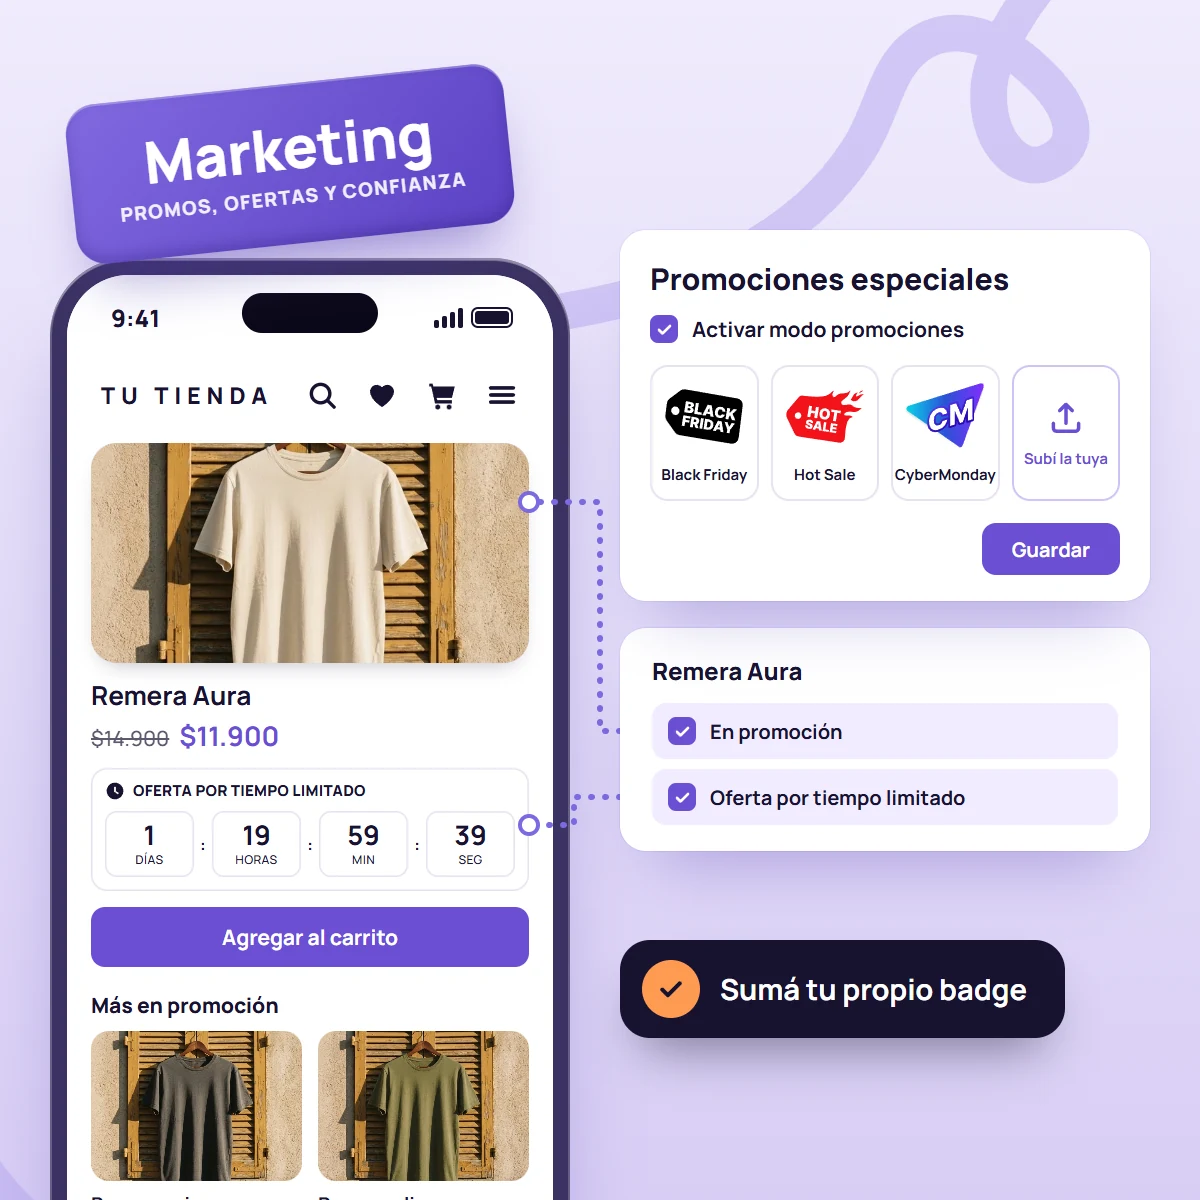
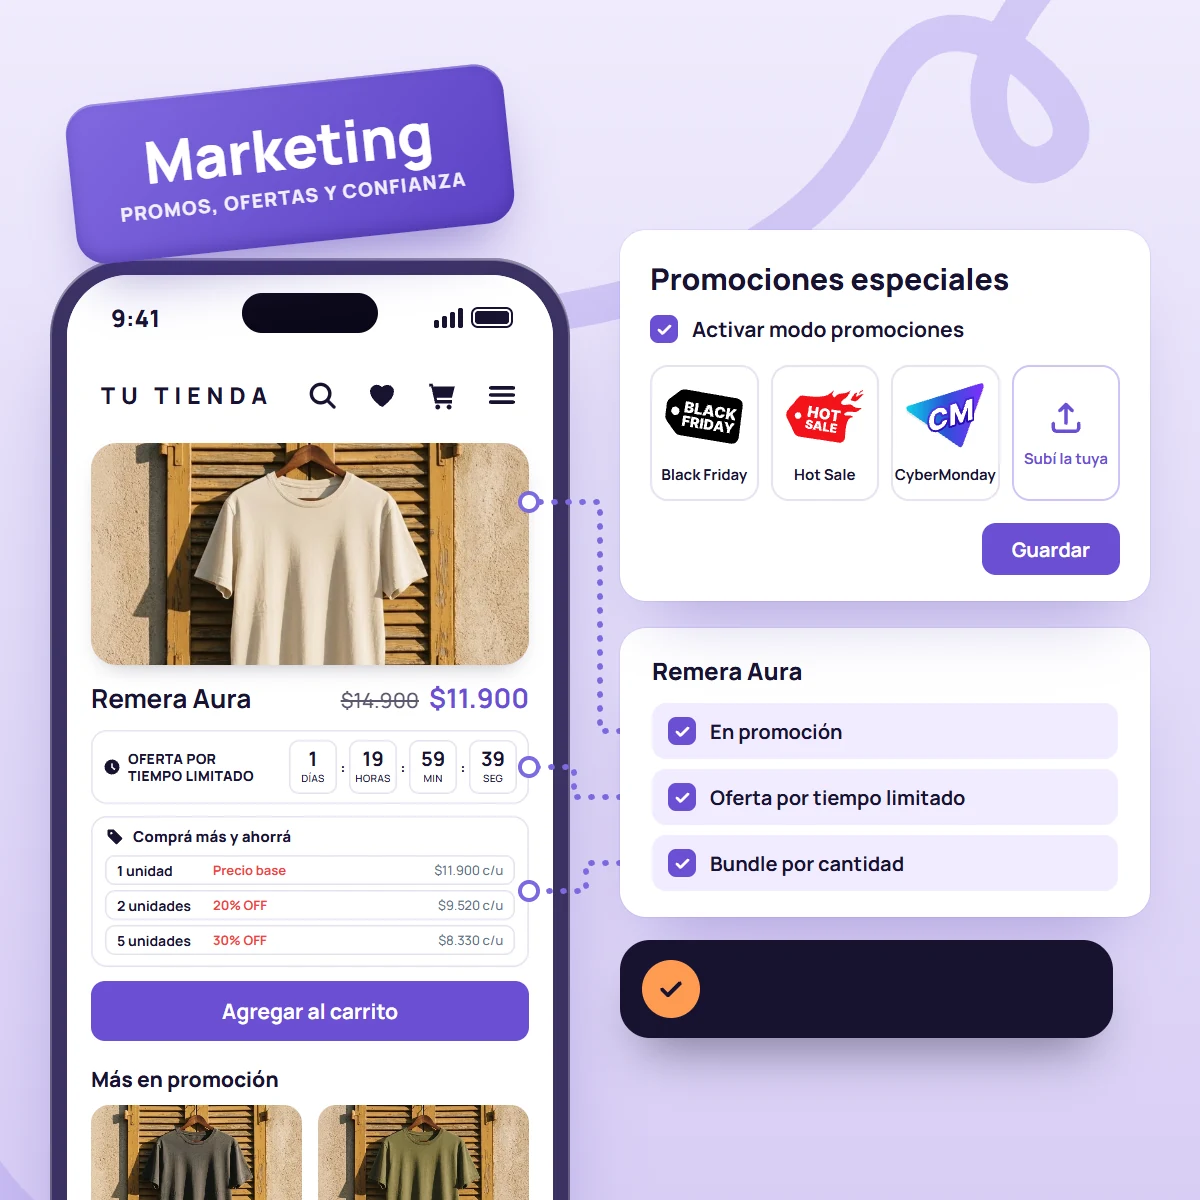
Marketing: Pixel de Meta y Comprá más y ahorrá, imagen nueva y recuadro que no se sale
- Imagen de Marketing: bloque de descuento por cantidad arriba del botón (selección animada), contador chico al lado del título, foto de la remera más alta, tercer casillero Bundle por cantidad
- Cartel azul que cambia a Medí con tu Pixel de Meta, con el ícono del Pixel
- Nuevos puntos en Herramientas de marketing y en la lista del plan Premium
- El recuadro de la imagen mide siempre el ancho de su columna y no se sale
- Sin la línea Todo para promocionar tu tienda en la landing

diff --git a/src/components/MarketingAnimado.jsx b/src/components/MarketingAnimado.jsx
@@ -3,6 +3,7 @@ import fotoAviso from "../assets/premium-overlays/aviso-producto.jpg"
 import badgeBF from "../assets/premium-overlays/badge-bf.svg"
 import badgeHS from "../assets/premium-overlays/badge-hs.svg"
 import badgeCM from "../assets/premium-overlays/badge-cm.svg"
+import pixelMeta from "../assets/premium-overlays/pixel-meta.png"
 
 // Imagen "Marketing", con la tienda viva:
 //  - El contador de la oferta anda: los minutos y los segundos bajan de a uno, como en la tienda real. La imagen
@@ -12,13 +13,15 @@ import badgeCM from "../assets/premium-overlays/badge-cm.svg"
 //  - Los badges se van eligiendo de a uno (Black Friday, Hot Sale, CyberMonday; "Subí la tuya" no): un cursor hace clic en
 //    cada opción, la opción se marca en violeta y el badge elegido se aplica al producto del celular y a los de "Más en
 //    promoción". Bucle de 9 s. La imagen trae el panel y el celular sin la selección ni los badges: esta capa los dibuja.
+//  - El cartel azul de abajo cambia de mensaje en el mismo bucle de 9 s: "Sumá tu propio badge" y, al final, "Medí con tu Pixel de Meta" (el ícono aparece con ese mensaje).
+//  - "Comprá más y ahorrá" (descuento por cantidad, arriba del botón): la imagen trae las tres filas; esta capa dibuja la selección. Bucle de 9 s.
 // Posiciones y tamaños en porcentajes de la imagen de 1200 px (el texto, en unidades del contenedor).
 // Solo se anima mientras la imagen está visible (`activa`) y si el sistema no pide "reducir movimiento"
 // (o se abrió la página con ?motion=on); si no, queda la imagen con la notificación a la vista.
 const INICIO = 59 * 60 + 39 // 59 min 39 seg, como en la imagen
-const TOP = "67.583%"
-const ALTO = "5.5%"
-const ANCHO = "7.408%"
+const TOP = "61.667%"
+const ALTO = "4.5%"
+const ANCHO = "4%"
 
 const OPCIONES = [
   { k: "bf", img: badgeBF, left: 54.167 },
@@ -28,8 +31,8 @@ const OPCIONES = [
 // dónde se aplica el badge elegido: la foto del producto y los dos de "Más en promoción" (izquierda, arriba, ancho)
 const APLICA = [
   { left: "8.417%", top: "38.25%", width: "10.667%" },
-  { left: "8.25%", top: "86.583%", width: "6.167%" },
-  { left: "27.167%", top: "86.583%", width: "6.167%" },
+  { left: "8.25%", top: "92.75%", width: "6.167%" },
+  { left: "27.167%", top: "92.75%", width: "6.167%" },
 ]
 const TILE_TOP = "30.417%"
 const TILE_ALTO = "11.333%"
@@ -48,12 +51,12 @@ function Caja({ left, valor, etiqueta }) {
   return (
     <div
       className="absolute flex flex-col items-center justify-center overflow-hidden bg-white"
-      style={{ left, top: TOP, width: ANCHO, height: ALTO, borderRadius: "1cqw", boxShadow: "inset 0 0 0 0.125cqw #E6E2F0" }}
+      style={{ left, top: TOP, width: ANCHO, height: ALTO, borderRadius: "0.833cqw", boxShadow: "inset 0 0 0 0.125cqw #E6E2F0" }}
     >
-      <b key={valor} className="cd-num font-bold text-ink" style={{ fontSize: "2.25cqw", lineHeight: 1 }}>
+      <b key={valor} className="cd-num font-bold text-ink" style={{ fontSize: "1.667cqw", lineHeight: 1 }}>
         {String(valor).padStart(2, "0")}
       </b>
-      <span className="text-ink-muted" style={{ fontSize: "1cqw", marginTop: "0.25cqw", letterSpacing: "0.04em" }}>
+      <span className="text-ink-muted" style={{ fontSize: "0.833cqw", marginTop: "0.167cqw", letterSpacing: "0.04em" }}>
         {etiqueta}
       </span>
     </div>
@@ -74,8 +77,10 @@ export default function MarketingAnimado({ activa = false }) {
 
   return (
     <div aria-hidden="true" className={`absolute inset-0 ${activa ? "push-activa" : ""}`}>
-      <Caja left="26.592%" valor={Math.floor(restan / 60) % 60} etiqueta="MIN" />
-      <Caja left="35.508%" valor={restan % 60} etiqueta="SEG" />
+      <Caja left="34.083%" valor={Math.floor(restan / 60) % 60} etiqueta="MIN" />
+      <Caja left="39.083%" valor={restan % 60} etiqueta="SEG" />
+      {/* "Comprá más y ahorrá": el borde negro de la cantidad elegida salta de 1 a 2 y a 5 unidades (queda en 1 unidad) */}
+      <span aria-hidden="true" className="bnd-sel absolute" style={{ left: "8.75%", top: "71.25%", width: "34.167%", height: "2.5%" }} />
       {/* badges: se eligen de a uno y se aplican al producto */}
       {OPCIONES.map((o) => (
         <span
@@ -124,6 +129,21 @@ export default function MarketingAnimado({ activa = false }) {
           style={{ left: `${o.left + TILE_ANCHO / 2}%`, top: TILE_CENTRO_Y }}
         />
       ))}
+      {/* Cartel azul: "Sumá tu propio badge" mientras se eligen los badges y, al final del bucle, "Sumá tu Pixel de Meta" con su ícono */}
+      <div className="absolute grid items-center text-white" style={{ left: "60%", top: "78.333%", height: "8.167%" }}>
+        <span className="px-a whitespace-nowrap font-bold" style={{ gridArea: "1 / 1", fontSize: "2.417cqw", lineHeight: 1 }}>
+          Sumá tu propio badge
+        </span>
+        <span className="px-b whitespace-nowrap font-bold" style={{ gridArea: "1 / 1", fontSize: "2.417cqw", lineHeight: 1, opacity: 0 }}>
+          Medí con tu Pixel de Meta
+        </span>
+      </div>
+      <img
+        src={pixelMeta}
+        alt=""
+        className="px-ico absolute"
+        style={{ left: "85.833%", top: "87.667%", width: "10%", transform: "rotate(7deg)", filter: "drop-shadow(0 1.333cqw 1.667cqw rgba(76,52,170,.34))" }}
+      />
       <svg className="bd-cursor absolute" viewBox="0 0 24 24" style={{ left: `${OPCIONES[0].left + TILE_ANCHO / 2}%`, top: TILE_CENTRO_Y }}>
         <path d="M5 3l14 7-6 2-2 6z" fill="#fff" stroke="#17122F" strokeWidth="1.5" strokeLinejoin="round" />
       </svg>

diff --git a/src/index.css b/src/index.css
@@ -655,6 +655,43 @@ body {
 :root[data-motion="on"] .push-activa .bd-pop-cm { animation: bd-pop-cm 9s ease-out infinite; }
 :root[data-motion="on"] .push-activa .bd-onda-cm { animation: bd-onda-cm 9s ease-out infinite; }
 
+/* Bloque "Comprá más y ahorrá" de la imagen Marketing (MarketingAnimado), bucle de 9 s: el borde negro de la cantidad elegida
+   salta de 1 unidad a 2 y a 5, y vuelve. Quieto con "reducir movimiento" (queda 1 unidad); con ?motion=on se fuerza. */
+.bnd-sel {
+  border-radius: 0.83cqw;
+  box-shadow: inset 0 0 0 0.25cqw #17122f;
+}
+@keyframes bnd-sel {
+  0%, 26% { transform: translateY(0); }
+  33%, 59% { transform: translateY(116.667%); }
+  66%, 92% { transform: translateY(233.333%); }
+  100% { transform: translateY(0); }
+}
+@media (prefers-reduced-motion: no-preference) {
+  .push-activa .bnd-sel { animation: bnd-sel 9s ease-in-out infinite; }
+}
+:root[data-motion="on"] .push-activa .bnd-sel { animation: bnd-sel 9s ease-in-out infinite; }
+
+/* Cartel azul de la imagen Marketing (MarketingAnimado), bucle de 9 s (el de los badges): "Sumá tu propio badge" mientras se
+   eligen, y al final "Medí con tu Pixel de Meta" con el ícono del Pixel que aparece con un pequeño rebote. Quieto con "reducir
+   movimiento" (queda "Sumá tu propio badge" y el ícono a la vista); con ?motion=on se fuerza. */
+@keyframes px-a { 0%, 62% { opacity: 1; } 67%, 96% { opacity: 0; } 100% { opacity: 1; } }
+@keyframes px-b { 0%, 62% { opacity: 0; } 68%, 95% { opacity: 1; } 99%, 100% { opacity: 0; } }
+@keyframes px-ico {
+  0%, 64% { opacity: 0; transform: rotate(7deg) scale(0.5); }
+  69% { opacity: 1; transform: rotate(7deg) scale(1.12); }
+  73%, 95% { opacity: 1; transform: rotate(7deg) scale(1); }
+  99%, 100% { opacity: 0; transform: rotate(7deg) scale(0.8); }
+}
+@media (prefers-reduced-motion: no-preference) {
+  .push-activa .px-a { animation: px-a 9s linear infinite; }
+  .push-activa .px-b { animation: px-b 9s linear infinite; }
+  .push-activa .px-ico { animation: px-ico 9s ease-out infinite; }
+}
+:root[data-motion="on"] .push-activa .px-a { animation: px-a 9s linear infinite; }
+:root[data-motion="on"] .push-activa .px-b { animation: px-b 9s linear infinite; }
+:root[data-motion="on"] .push-activa .px-ico { animation: px-ico 9s ease-out infinite; }
+
 /* Carrusel de la imagen "Más espacio para tus promociones" (CarruselAnimado), bucle de 10 s: las láminas se deslizan de
    costado (la primera se repite al final, así vuelve sin saltos) y el punto de la lámina activa se estira.
    Quieto con "reducir movimiento" (queda la primera lámina); con ?motion=on se fuerza. */

diff --git a/src/components/FuncionesBloque.jsx b/src/components/FuncionesBloque.jsx
@@ -194,7 +194,7 @@ export default function FuncionesBloque({
             <div
               ref={frame}
               data-reveal
-              className={`@container relative aspect-square overflow-hidden rounded-[2rem] bg-lavender shadow-xl shadow-primary/15 ring-1 ring-primary/20 ${
+              className={`@container relative aspect-square w-full overflow-hidden rounded-[2rem] bg-lavender shadow-xl shadow-primary/15 ring-1 ring-primary/20 md:self-start ${
                 invertido ? "md:order-2" : ""
               }`}
             >
@@ -269,11 +269,13 @@ export default function FuncionesBloque({
                     }`}
                   >
                     <div className="overflow-hidden">
-                      <p className={`text-sm leading-relaxed text-ink-soft ${funcion.puntos ? "" : "pb-3"}`}>
-                        {funcion.cuerpo}
-                      </p>
+                      {funcion.cuerpo && (
+                        <p className={`text-sm leading-relaxed text-ink-soft ${funcion.puntos ? "" : "pb-3"}`}>
+                          {funcion.cuerpo}
+                        </p>
+                      )}
                       {funcion.puntos && (
-                        <ul className="mt-2 space-y-1.5 pb-3 text-sm leading-relaxed text-ink-soft">
+                        <ul className={`${funcion.cuerpo ? "mt-2 " : ""}space-y-1.5 pb-3 text-sm leading-relaxed text-ink-soft`}>
                           {funcion.puntos.map((punto) => (
                             <li key={punto} className="flex gap-2">
                               <span

diff --git a/src/lib/funcionesPremium.js b/src/lib/funcionesPremium.js
@@ -45,13 +45,14 @@ export const funcionesPremium = [
   },
   {
     titulo: "Herramientas de marketing",
-    cuerpo: "Todo para promocionar tu tienda:",
     puntos: [
       "Modo promociones: Black Friday, Hot Sale, CyberMonday o el tuyo.",
       "Ofertas con cuenta regresiva, producto por producto.",
+      "Descuentos por cantidad en cada producto: Comprá más y ahorrá.",
       "Notificación de confianza cuando alguien compra.",
+      "Pixel de Meta para medir tus anuncios.",
     ],
-    etiquetaImagen: "La tienda con su badge de promoción, la oferta con cuenta regresiva y la notificación de confianza",
+    etiquetaImagen: "La tienda con su badge de promoción, la oferta con cuenta regresiva, el descuento por cantidad y la notificación de confianza",
   },
   {
     titulo: "Ventana emergente al salir",

diff --git a/src/lib/planes.js b/src/lib/planes.js
@@ -87,7 +87,7 @@ export const plans = [
       { text: "Gastos de gestión y envío gratis, por cantidad o por monto", isNew: true },
       { text: "Vendé mayorista o minorista, con compra mínima por monto o por cantidad", isNew: true },
       { text: "Mercado Pago y cuotas, además de efectivo y transferencia", isNew: true },
-      { text: "Marketing: notificación de confianza, ofertas por tiempo limitado y promociones", isNew: true },
+      { text: "Marketing: notificación de confianza, ofertas por tiempo limitado, promociones, descuentos por cantidad y Pixel de Meta", isNew: true },
       { text: "Ventana emergente al salir, para quien deja su pedido sin terminar", isNew: true },
       { text: "Barra promocional con tus mensajes y tu color, sin Lemora Ads", isNew: true },
     ],

diff --git a/herramientas/premium-imagenes/generar.py b/herramientas/premium-imagenes/generar.py
@@ -40,6 +40,7 @@ FOTOS = {
     "badge-bf": _p("badge-bf.svg"),
     "badge-hs": _p("badge-hs.svg"),
     "badge-cm": _p("badge-cm.svg"),
+    "pixel-meta": _p("pixel-meta.png"),
     "carrito-gris": _p("remera-gris.jpg"),
     "carrito-crema": _p("remera-crema.jpg"),
 }
@@ -599,37 +600,48 @@ def escena_7():
     flag = lambda txt, on, idn="": (f'<div id="{idn}" style="display:flex;align-items:center;gap:14px;height:56px;padding:0 16px;border-radius:14px;font-size:20px;font-weight:700;white-space:nowrap;{activa}">{chk(on)}{txt}</div>')
     producto = tarjeta("left:620px;top:628px;width:530px;padding:26px 32px 26px;border-radius:26px", f"""
       <div style="font-size:24px;font-weight:800">Remera Aura</div>
-      <div style="display:flex;flex-direction:column;gap:10px;margin-top:16px">{flag("En promoción", True, "ck-promo")}{flag("Oferta por tiempo limitado", True, "ck-oferta")}</div>""")
+      <div style="display:flex;flex-direction:column;gap:10px;margin-top:16px">{flag("En promoción", True, "ck-promo")}{flag("Oferta por tiempo limitado", True, "ck-oferta")}{flag("Bundle por cantidad", True, "ck-bundle")}</div>""")
     # ---------------- la tienda en el celular
-    reloj_ico = '<svg viewBox="0 0 24 24" width="20" height="20" fill="#17122F"><path d="M12 2a10 10 0 1 0 0 20 10 10 0 0 0 0-20zm1 5v5.200l3.600 2.100-1 1.700L11 13V7z"/></svg>'
-    caja = lambda idn, num, etq: (f'<div id="cd-{idn}" style="flex:1;height:66px;border-radius:12px;box-shadow:inset 0 0 0 1.5px #E6E2F0;background:#fff;display:flex;flex-direction:column;align-items:center;justify-content:center">'
-                                  f'<b style="font-size:27px;line-height:1">{num}</b><span style="font-size:12px;color:#17122F;margin-top:3px;letter-spacing:.04em">{etq}</span></div>')
-    dos = '<span style="font-size:18px;font-weight:700;color:#17122F">:</span>'
-    reloj = ('<div id="cd-card" style="margin-top:14px;border-radius:16px;box-shadow:inset 0 0 0 1.5px #E6E2F0;padding:12px 14px 14px;background:#fff">'
-             f'<div style="display:flex;align-items:center;gap:8px;font-size:15px;font-weight:800;letter-spacing:.02em;color:#17122F">{reloj_ico}OFERTA POR TIEMPO LIMITADO</div>'
-             f'<div style="display:flex;align-items:center;gap:6px;margin-top:10px">{caja("dias", "1", "DÍAS")}{dos}{caja("horas", "19", "HORAS")}{dos}{caja("min", "59", "MIN")}{dos}{caja("seg", "39", "SEG")}</div></div>')
+    reloj_ico = '<svg viewBox="0 0 24 24" width="18" height="18" fill="#17122F"><path d="M12 2a10 10 0 1 0 0 20 10 10 0 0 0 0-20zm1 5v5.200l3.600 2.100-1 1.700L11 13V7z"/></svg>'
+    caja = lambda idn, num, etq: (f'<div id="cd-{idn}" style="width:48px;height:54px;flex:none;border-radius:10px;box-shadow:inset 0 0 0 1.5px #E6E2F0;background:#fff;display:flex;flex-direction:column;align-items:center;justify-content:center">'
+                                  f'<b style="font-size:20px;line-height:1">{num}</b><span style="font-size:10px;color:#17122F;margin-top:2px;letter-spacing:.04em">{etq}</span></div>')
+    dos = '<span style="font-size:14px;font-weight:700;color:#17122F;width:6px;text-align:center">:</span>'
+    reloj = ('<div id="cd-card" style="margin-top:14px;border-radius:16px;box-shadow:inset 0 0 0 1.5px #E6E2F0;padding:10px 12px;background:#fff;display:flex;align-items:center;justify-content:space-between;gap:8px">'
+             f'<div style="display:flex;align-items:center;gap:7px;font-size:14px;font-weight:800;letter-spacing:.02em;color:#17122F;line-height:1.25">{reloj_ico}<span>OFERTA POR<br>TIEMPO LIMITADO</span></div>'
+             f'<div style="display:flex;align-items:center;gap:3px">{caja("dias", "1", "DÍAS")}{dos}{caja("horas", "19", "HORAS")}{dos}{caja("min", "59", "MIN")}{dos}{caja("seg", "39", "SEG")}</div></div>')
     precio = '<span style="text-decoration:line-through;color:#17122F;font-size:21px;margin-right:10px;opacity:.7">$14.900</span><b style="color:#6C4FD4;font-size:27px">$11.900</b>'
-    cta = '<div style="margin-top:16px;height:60px;border-radius:14px;background:#6C4FD4;color:#fff;font-size:21px;font-weight:700;display:flex;align-items:center;justify-content:center">Agregar al carrito</div>'
+    tag_ico = '<svg viewBox="0 0 24 24" width="20" height="20" fill="#17122F"><path d="M3 4a1 1 0 0 1 1-1h6.200a1 1 0 0 1 .7.3l9.800 9.800a1 1 0 0 1 0 1.400l-6.200 6.200a1 1 0 0 1-1.400 0L3.300 10.900A1 1 0 0 1 3 10.200V4zm4.500 2a1.500 1.500 0 1 0 0 3 1.500 1.500 0 0 0 0-3z"/></svg>'
+
+    def fila(cant, etq, precio, idn):
+        return (f'<div id="{idn}" style="display:flex;align-items:center;height:30px;padding:0 12px;border-radius:10px;box-shadow:inset 0 0 0 1.5px #E6E2F0;background:#fff;white-space:nowrap">'
+                f'<b style="width:96px;font-size:14px">{cant}</b><b style="color:#EF4444;font-size:13px">{etq}</b>'
+                f'<span style="margin-left:auto;color:#64748B;font-size:13px">{precio} c/u</span></div>')
+    bundle = ('<div id="bnd-card" style="margin-top:12px;border-radius:16px;box-shadow:inset 0 0 0 1.5px #E6E2F0;padding:10px 14px 12px;background:#fff">'
+              f'<div style="display:flex;align-items:center;gap:8px;font-size:15px;font-weight:800;letter-spacing:.01em;color:#17122F">{tag_ico}Comprá más y ahorrá</div>'
+              f'<div style="display:flex;flex-direction:column;gap:5px;margin-top:8px">{fila("1 unidad", "Precio base", "$11.900", "bn-1")}{fila("2 unidades", "20% OFF", "$9.520", "bn-2")}{fila("5 unidades", "30% OFF", "$8.330", "bn-3")}</div></div>')
+    cta = '<div id="cta-btn" style="margin-top:14px;height:60px;border-radius:14px;background:#6C4FD4;color:#fff;font-size:21px;font-weight:700;display:flex;align-items:center;justify-content:center">Agregar al carrito</div>'
     def mini(clave, nombre):
         uri = foto_uri(clave)
         fondo = f"#E2D9FF url({uri}) center/cover no-repeat" if uri else "#E2D9FF"
-        return (f'<div style="flex:1"><div style="position:relative;height:150px;border-radius:18px;background:{fondo}">'
+        return (f'<div style="flex:1"><div id="mn-{clave}" style="position:relative;height:150px;border-radius:18px;background:{fondo}">'
                 f'</div>'
                 f'<b style="font-size:19px;display:block;margin-top:10px">{nombre}</b><span style="color:#6C4FD4;font-weight:800;font-size:19px">$14.900</span></div>')
     mas = (f'<div style="margin-top:24px;font-size:21px;font-weight:800">Más en promoción</div>'
            f'<div style="display:flex;gap:16px;margin-top:12px">{mini("carrito-gris", "Remera gris")}{mini("mkt-aviso", "Remera oliva")}</div>')
     tel = celular("left:50px;top:258px;width:520px", 1100, f"""
       {cabecera_tienda()}
-      <div style="padding:6px 24px 0;position:relative"><div id="ft-prod">{foto("mkt-prod", "producto en promoción", "height:220px;border-radius:26px")}</div>
-      <b style="font-size:26px;display:block;margin-top:14px">Remera Aura</b><div style="margin-top:4px">{precio}</div>{reloj}{cta}{mas}</div>""")
+      <div style="padding:6px 24px 0;position:relative"><div id="ft-prod">{foto("mkt-prod", "producto en promoción", "height:222px;border-radius:26px")}</div>
+      <div style="display:flex;align-items:baseline;justify-content:space-between;gap:12px;margin-top:14px"><b style="font-size:26px">Remera Aura</b><div style="white-space:nowrap">{precio}</div></div>{reloj}{bundle}{cta}{mas}</div>""")
     # líneas punteadas (posiciones medidas del dibujo): "En promoción" -> badge de la foto, "Oferta por tiempo limitado" -> contador
     lineas = ('<svg class="conexion" width="1200" height="1200" viewBox="0 0 1200 1200" fill="none">'
               '<path d="M620 731 H600 V502 H529" stroke="#7C6AE0" stroke-width="6" stroke-linecap="round" stroke-linejoin="round" stroke-dasharray="1 13"/>'
-              '<path d="M620 797 H574 V825 H529" stroke="#7C6AE0" stroke-width="6" stroke-linecap="round" stroke-dasharray="1 13"/>'
-              '<circle cx="529" cy="502" r="9" fill="#fff" stroke="#7C6AE0" stroke-width="4"/><circle cx="529" cy="825" r="9" fill="#fff" stroke="#7C6AE0" stroke-width="4"/></svg>')
-    return (TRAZO.format(s="left:560px;top:330px;transform-origin:0 0;transform:rotate(-90deg) scale(1.05)") + TRAZO.format(s="left:-110px;top:960px") + tel + lineas + producto + promo
+              '<path d="M620 797 H574 V767 H529" stroke="#7C6AE0" stroke-width="6" stroke-linecap="round" stroke-dasharray="1 13"/>'
+              '<circle cx="529" cy="502" r="9" fill="#fff" stroke="#7C6AE0" stroke-width="4"/><path d="M620 863 H586 V891 H529" stroke="#7C6AE0" stroke-width="6" stroke-linecap="round" stroke-linejoin="round" stroke-dasharray="1 13"/>'
+              '<circle cx="529" cy="767" r="9" fill="#fff" stroke="#7C6AE0" stroke-width="4"/><circle cx="529" cy="891" r="9" fill="#fff" stroke="#7C6AE0" stroke-width="4"/></svg>')
+    return (TRAZO.format(s="left:560px;top:330px;transform-origin:0 0;transform:rotate(-90deg) scale(1.05)") + TRAZO.format(s="left:-110px;top:960px") + '<style>#ft-prod img{object-position:50% 38%}</style>' + tel + lineas + producto + promo
             + sticker("Marketing", "Promos, ofertas y confianza", "left:70px;top:84px;white-space:nowrap")
-            + pill("Sumá tu propio badge", "left:620px;top:940px;font-size:29px"))
+            + pill('<span style="display:inline-grid"><span style="grid-area:1/1;visibility:hidden">Sumá tu propio badge</span>'
+                 '<span style="grid-area:1/1;visibility:hidden">Medí con tu Pixel de Meta</span></span>', "left:620px;top:940px;font-size:29px"))
 
 
 def escena_pagos(on=False):
